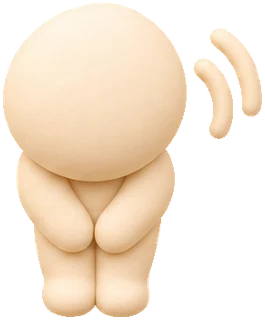
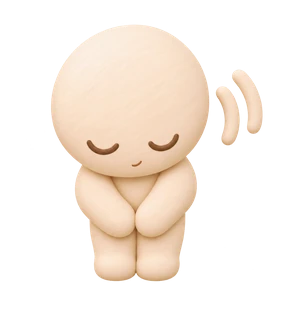
Closer to the approved concepts: Tic-tac-toe's navy only in its grooves and a brighter O, Copy Me's richer pads with the rabbit and the bowing figure, rounder balloons

diff --git a/extensions/playtime/Sources/Stage/StageGrid.swift b/extensions/playtime/Sources/Stage/StageGrid.swift
@@ -44,15 +44,15 @@ extension BoardDrawing {
 
     // MARK: Marks
 
-    /// The plate round the cells, and the groove between them. Its bottom edge stands on the alcove's floor, whatever the room above it.
-    private static let plateEdge = 5.0, cellGap = 4.0, largestCell = 80.0
+    /// The navy under the cells, seen only in the grooves between them, as in the concept. Its bottom edge stands on the alcove's floor, whatever the room above it.
+    private static let plateInset = 7.0, cellGap = 3.0, largestCell = 76.0
 
     private func marksBoard(rows: Int, columns: Int, cells: [Cell], locked: Bool, numpad: Bool) -> PartBlock {
-        let gap = Self.cellGap, edge = Self.plateEdge
-        let side = min(Self.largestCell, (playRoom - 2 * edge - Double(rows - 1) * gap) / Double(rows))
+        let gap = Self.cellGap, inset = Self.plateInset
+        let side = min(Self.largestCell, (playRoom - Double(rows - 1) * gap) / Double(rows))
         let w = Double(columns) * side + Double(columns - 1) * gap
         let h = Double(rows) * side + Double(rows - 1) * gap
-        let x = (Self.inner - w) / 2, y = playRoom - h - edge - 8
+        let x = (Self.inner - w) / 2, y = playRoom - h - 13
         let filled = !cells.contains { $0.mark == "empty" }
         let line = cells.indices.filter { cells[$0].state == "win" }
         func at(_ i: Int) -> (x: Double, y: Double) { (x + Double(i % columns) * (side + gap), y + Double(i / columns) * (side + gap)) }
@@ -63,7 +63,7 @@ extension BoardDrawing {
         let leaving = ctx.fresh ? cells.indices.filter { cells[$0].mark == "empty" && Self.pieceArt(previous?[safe: $0]?.mark) != nil } : []
         if !leaving.isEmpty { anims.append(Anim.sequence([.wait(ms: Double(leaving.count) * Self.leavingStep + 320)]).blocksInput()) }
         return PartBlock(.box("grid", w: Self.inner, h: playRoom) {
-            Node.rect(fill: Paint.plate, corner: 18).id("grid.plate").at(x - edge, y - edge).size(w + 2 * edge, h + 2 * edge).shadow(Paint.clear("#3A2A55", 0.28), radius: 7, dx: 0, dy: 4)
+            Node.rect(fill: Paint.plate, corner: 4).id("grid.plate").at(x + inset, y + inset).size(w - 2 * inset, h - 2 * inset)
             for i in cells.indices {
                 self.markCell(cells[i], index: i, columns: columns, side: side, locked: locked, numpad: numpad, stepsBack: settled && cells[i].state != "win",
                               leavingAfter: leaving.firstIndex(of: i).map { Double($0) * Self.leavingStep + 80 }, was: previous?[safe: i]?.mark).at(at(i).x, at(i).y)

diff --git a/extensions/playtime/Sources/Stage/StagePads.swift b/extensions/playtime/Sources/Stage/StagePads.swift
@@ -9,10 +9,10 @@ extension BoardDrawing {
     private static func hues(_ color: String) -> (light: String, dark: String, lipLight: String, lipDark: String) {
         switch color {
         case "green": ("#A9DBBA", "#83B595", "#86BD98", "#638F74")
-        case "yellow": ("#F8D779", "#D9B65A", "#E0BC55", "#B19244")
-        case "red": ("#F8A98A", "#DE8B6E", "#E48C6B", "#B56E55")
-        case "purple": ("#BFA8E4", "#A08BC8", "#A08ACB", "#7E6BA6")
-        default: ("#AFD0EF", "#8BADCF", "#8FB4DA", "#6C8CAD")
+        case "yellow": ("#FFD36E", "#D9B65A", "#E8B84E", "#B19244")
+        case "red": ("#FF9F73", "#DE8B6E", "#E8835A", "#B56E55")
+        case "purple": ("#BC9EE8", "#A08BC8", "#9D80CE", "#7E6BA6")
+        default: ("#A8CDF3", "#8BADCF", "#86AEDA", "#6C8CAD")
         }
     }
 
@@ -114,7 +114,7 @@ extension BoardDrawing {
         let artRoom = h - labelH - 14
         var face = Node.box(id + ".face", w: w, h: h) {
             Node.rect(fill: .adaptive(light: hue.light, dark: hue.dark), corner: corner).size(w, h)
-            Node.rect(corner: corner).gradient([Paint.clear("#FFFFFF", 0.22), Paint.clear("#FFFFFF", 0)], from: (0.5, 0), to: (0.5, 0.5)).size(w, h)
+            Node.rect(corner: corner).gradient([Paint.clear("#FFFFFF", 0.12), Paint.clear("#FFFFFF", 0)], from: (0.5, 0), to: (0.5, 0.5)).size(w, h)
             if let art = Self.picture(pad.art) {
                 Node.art(art, x: 24, y: 14, w: w - 48, h: artRoom - 10).id(id + ".art").shadow(Paint.clear("#3A2A55", 0.25), radius: 1.5, dx: 0, dy: 1.5)
             }

diff --git a/extensions/playtime/Sources/Stage/StageNumbers.swift b/extensions/playtime/Sources/Stage/StageNumbers.swift
@@ -318,7 +318,7 @@ extension BoardDrawing {
                 }
             }.label(L("{left} of {total} left", ["left": left, "total": total])), height: w)
         }
-        let h = Self.balloonH, w = h * 200 / 305
+        let h = Self.balloonH, w = h * 232 / 305
         let step = min(Self.balloonRailW / Double(max(total, 1)), w + 4)
         let startX = (Self.balloonRailW - step * Double(total)) / 2 + (step - w) / 2
         // A pop plays once: the verdict after a last balloon's build-up shows it gone.
